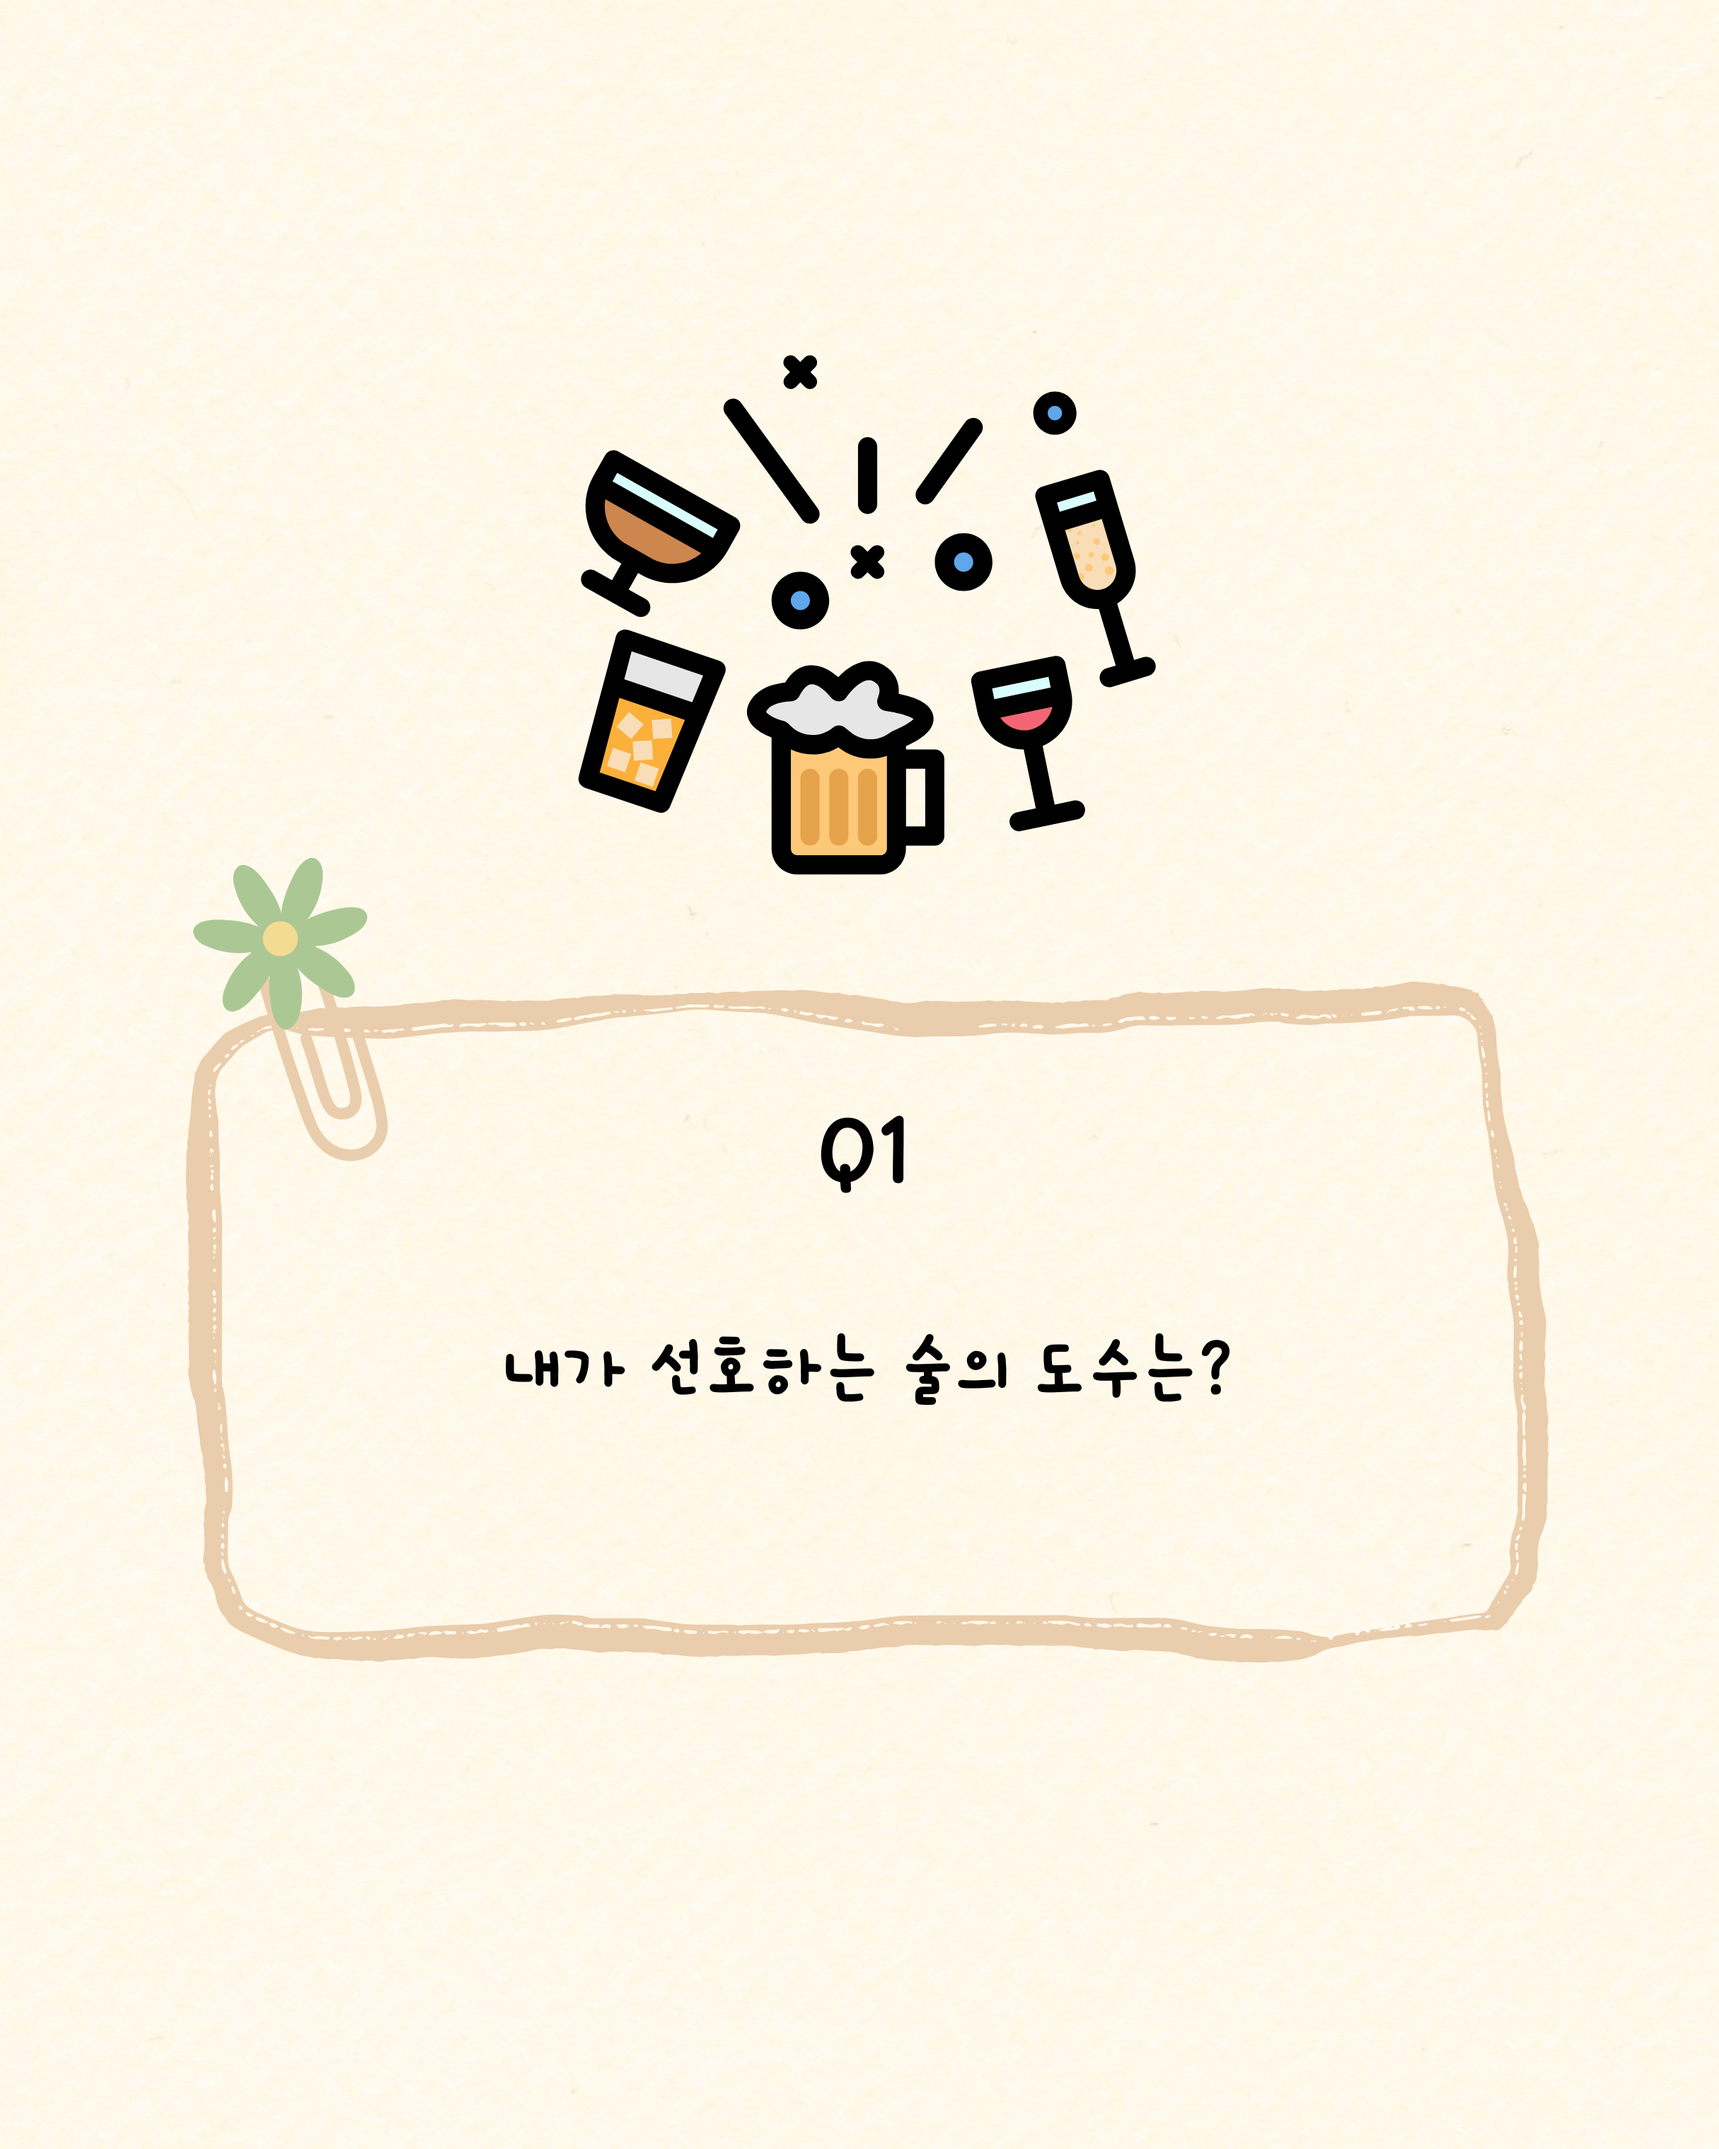
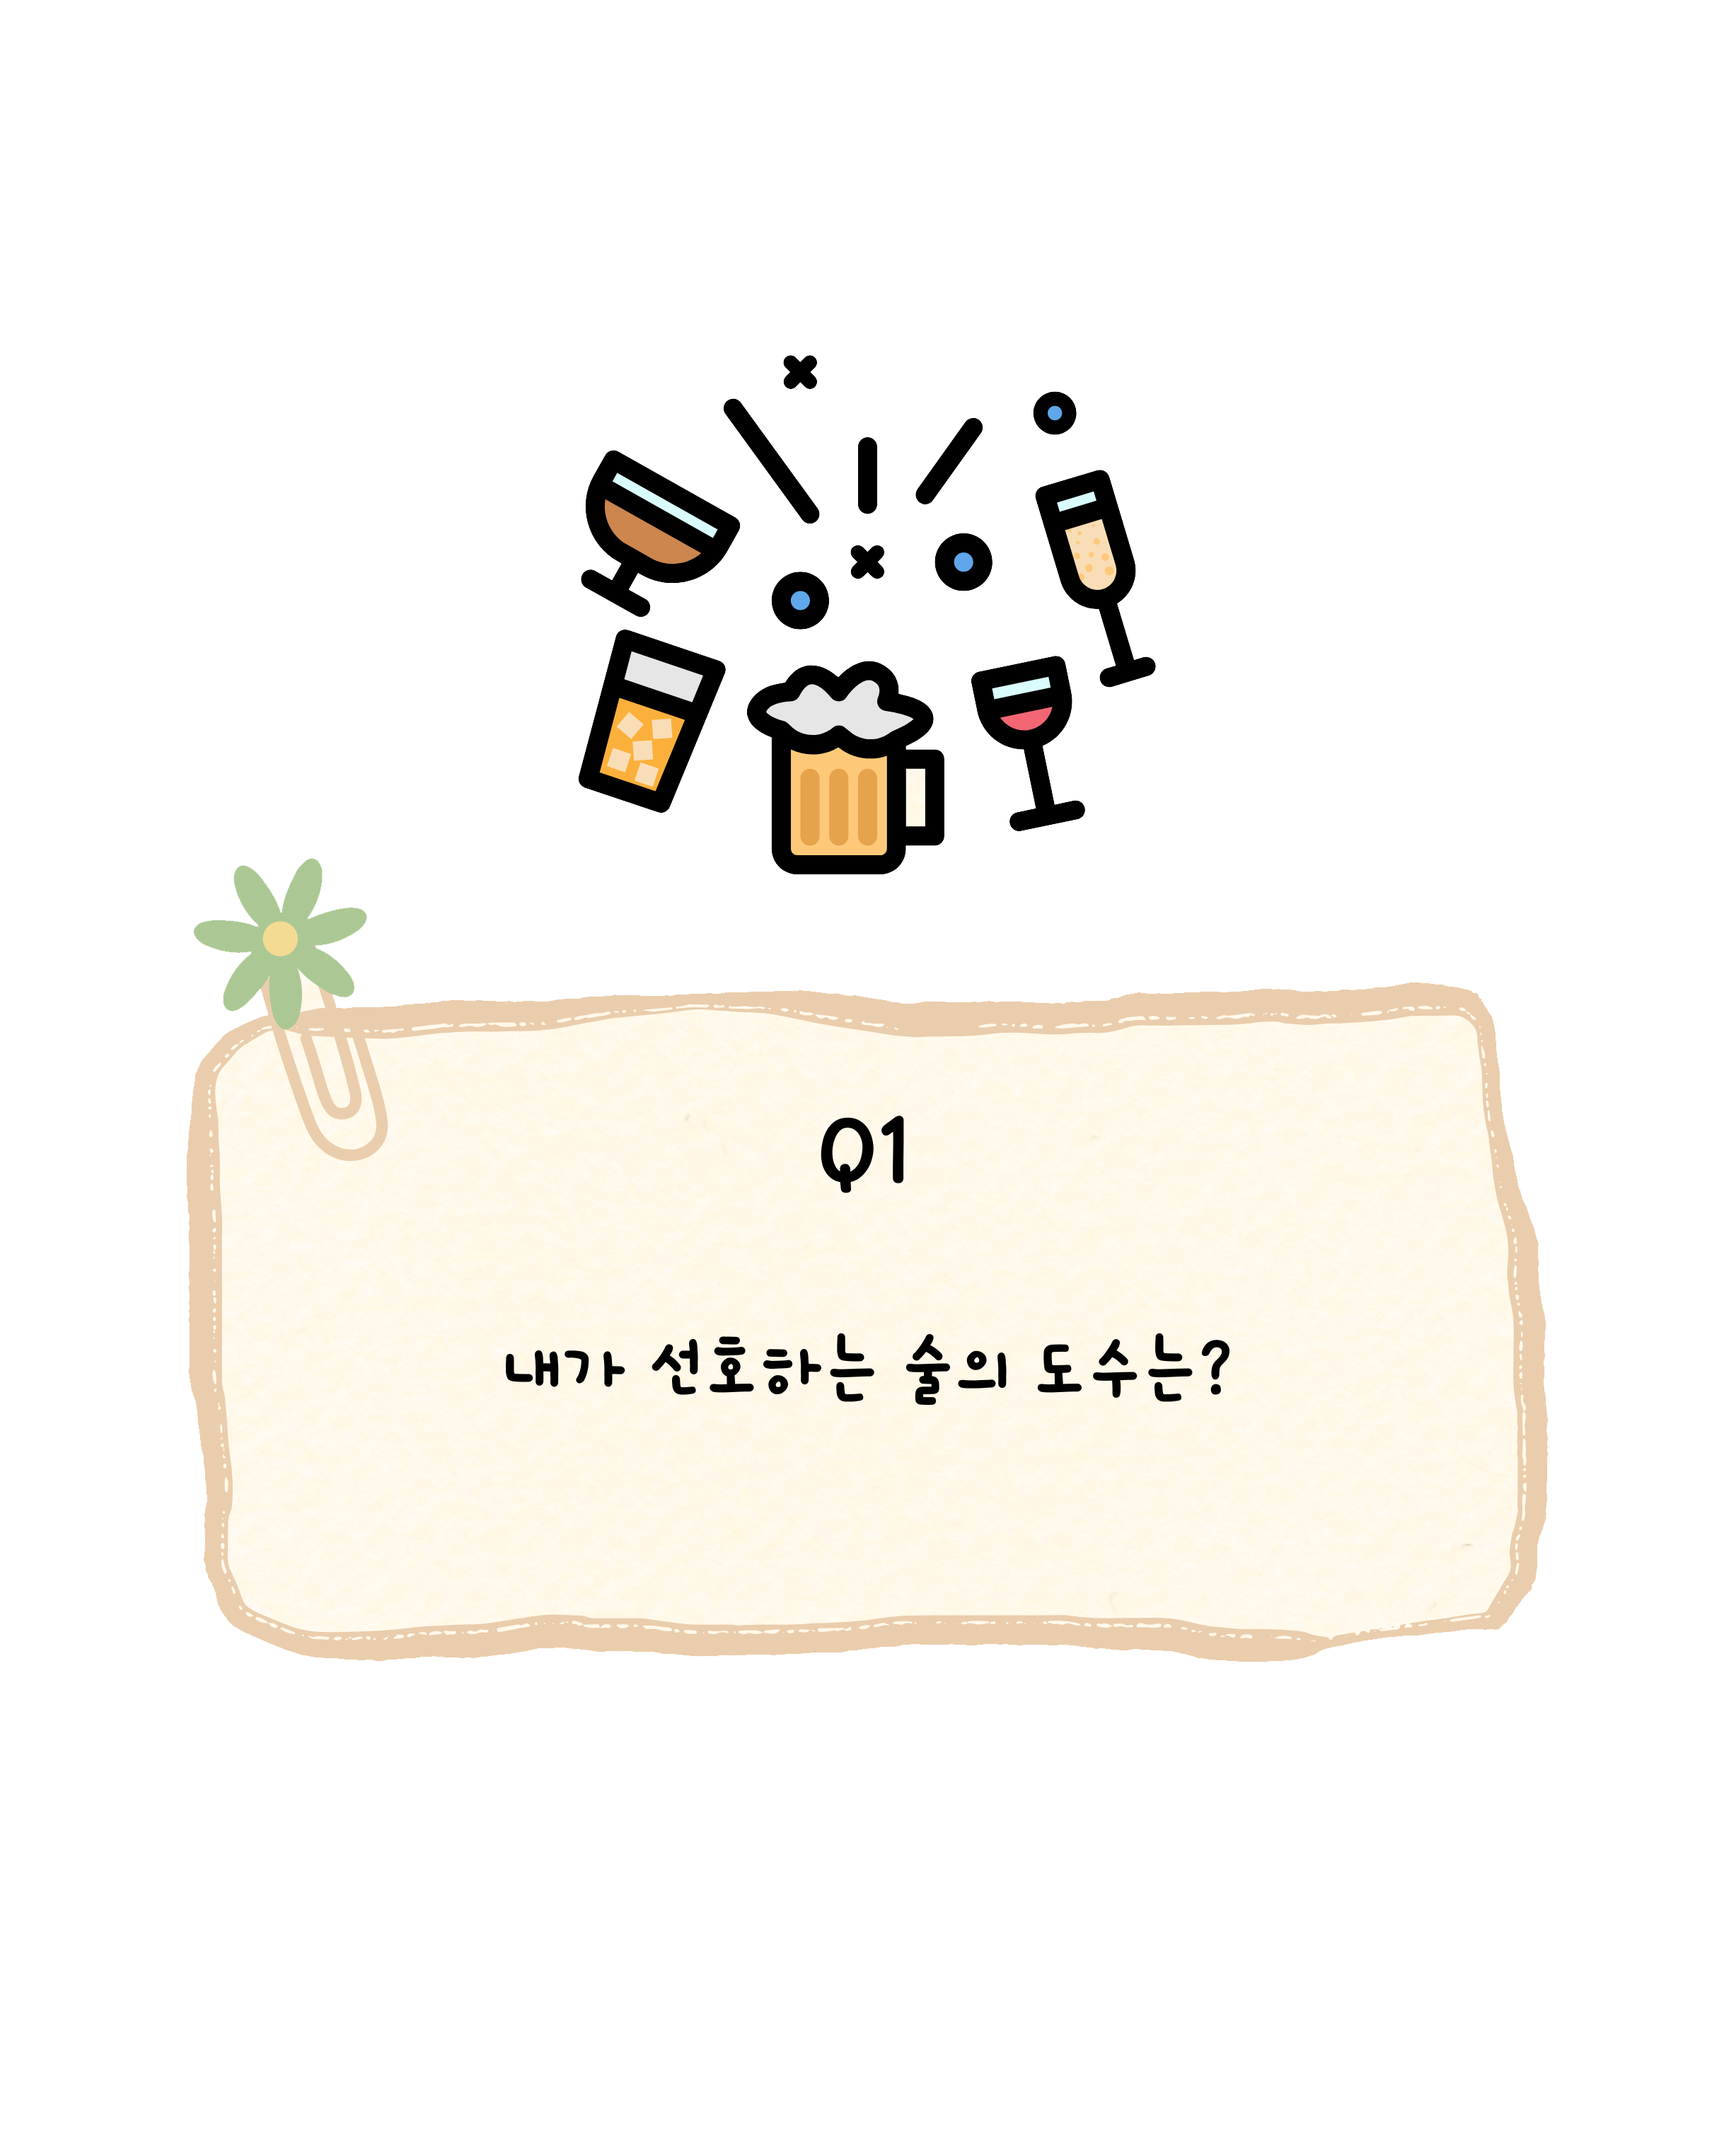
설문이미지 배경없애기

diff --git a/views/survey.html b/views/survey.html
@@ -26,7 +26,7 @@
       <div class="question-card">
         <!-- <h2 class="question-text">Q. 어떤 향을 선호하시나요?</h2> -->
         <div class="question-image">
-          <img src="/public/img/q1.png" alt="질문 이미지" />
+          <img alt="질문 이미지" />
         </div>
         <div class="answer-buttons">
           <button class="answer-btn">달콤한 향</button>

diff --git a/public/css/survey.css b/public/css/survey.css
@@ -88,15 +88,13 @@ body {
 }
 
 .question-image {
-  margin-top: 30px;
-  width: 400px;
-  height: 400px;
+  width: 450px;
+  height: 450px;
 }
 .question-image img {
-  width: 400px;
-  height: 400px;
+  width: 450px;
+  height: 450px;
   object-fit: cover;
-  background-color: #ffffff;
   border-radius: 8px;
 }
 
